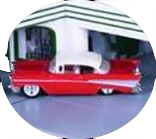
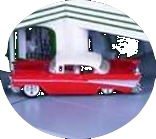
Gas Station Gui

diff --git a/scripts/b2w.py b/scripts/b2w.py
@@ -1,0 +1,47 @@
+from PIL import Image
+
+from src.pytrain.utils.path_utils import find_file
+
+
+def convert_black_to_white(input_path: str, output_path: str = None):
+    """
+    Convert black background to white in an image.
+
+    :param input_path: Path to the input image
+    :param output_path: Path to save the output image (if None, overwrites input)
+    """
+    if output_path is None:
+        output_path = input_path
+
+    # Open the image
+    img = Image.open(input_path)
+
+    # Convert to RGBA if not already
+    img = img.convert("RGBA")
+
+    # Get pixel data
+    pixels = img.load()
+    width, height = img.size
+
+    # Replace black (or near-black) pixels with white
+    # Adjust the threshold (30) if needed - higher values will replace more dark colors
+    threshold = 30
+
+    for y in range(height):
+        for x in range(width):
+            r, g, b, a = pixels[x, y]
+            # If pixel is black or very dark (and not transparent)
+            if r < threshold and g < threshold and b < threshold and a > 0:
+                pixels[x, y] = (255, 255, 255, a)  # Make it white
+
+    # Save the image
+    img.save(output_path, "PNG")
+    print(f"Image saved to: {output_path}")
+
+
+if __name__ == "__main__":
+    # Find and convert the image
+    input_file = find_file("gas-station-car.png")
+    print(f"Converting: {input_file}")
+    convert_black_to_white(input_file)
+    print("Done! The black background has been converted to white.")

diff --git a/src/pytrain/gui/gas_station_gui.py b/src/pytrain/gui/gas_station_gui.py
@@ -53,7 +53,7 @@ class GasStationGui(AccessoryBase):
         self._variant = variant
         self.power_button = self.car_button = None
         self.power_state = self.car_state = None
-        self.car_image = find_file("gas-station-car1.png")
+        self.car_image = find_file("gas-station-car.png")
         super().__init__(self._title, self._image, aggrigator=aggrigator)
 
     @staticmethod
